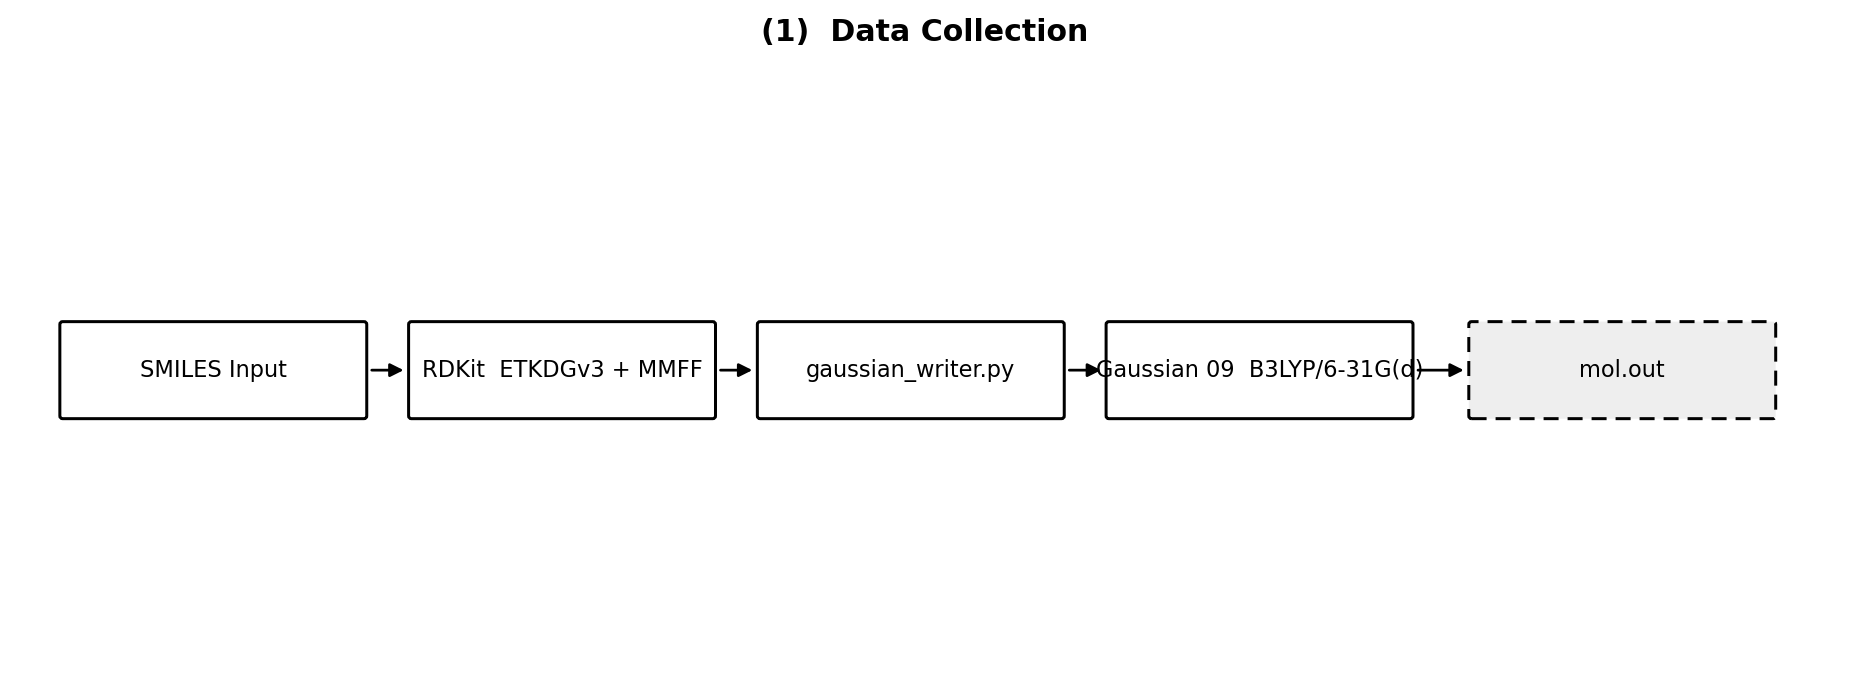
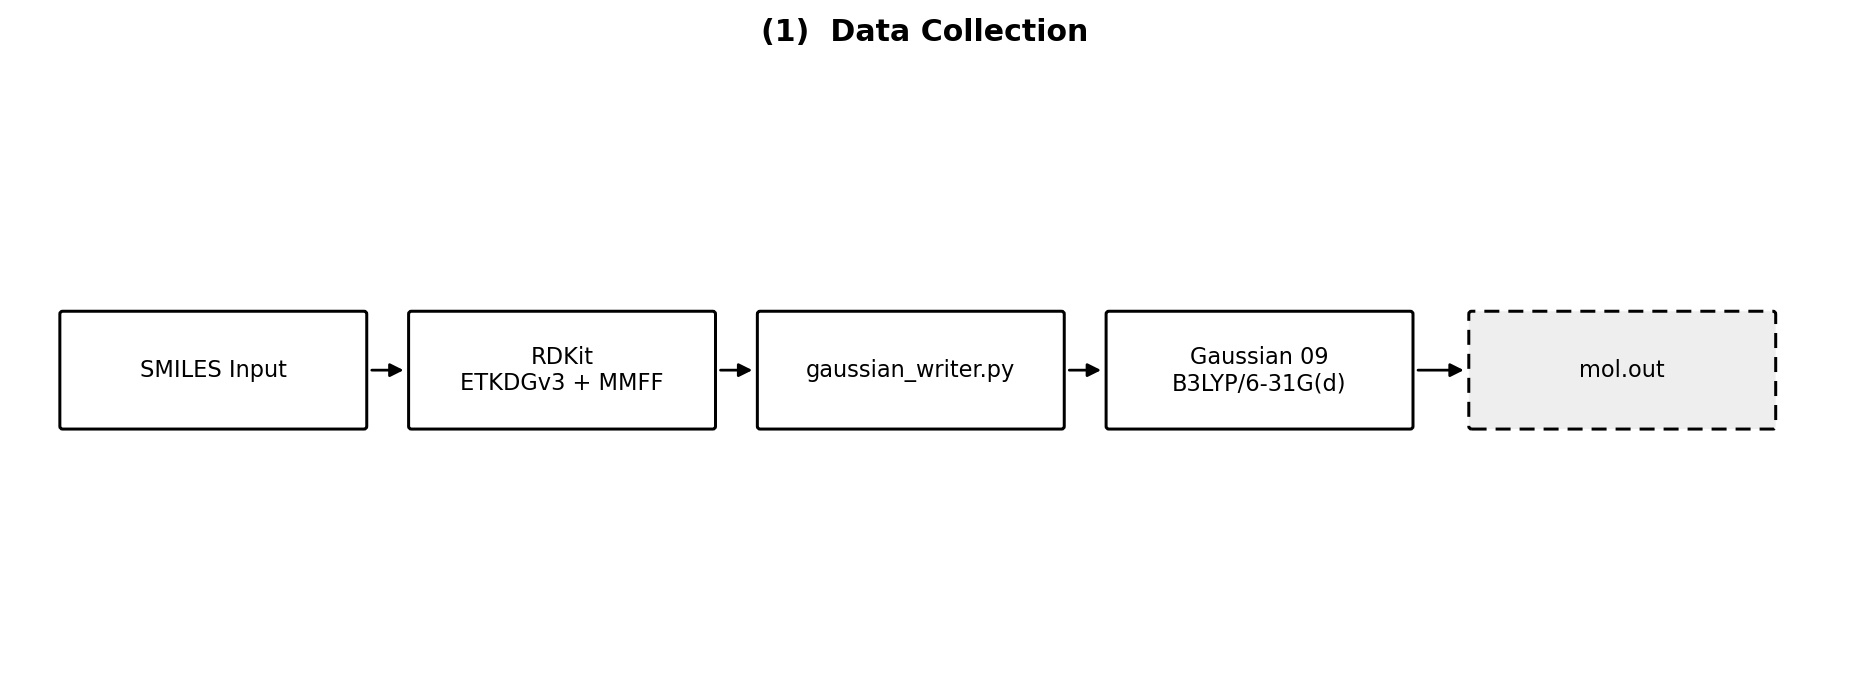
fix: resolve text overflow in 08a and redesign 08b arrows
08a: split long labels into two lines, increase box height
08b: all arrowheads now point right only; fork/merge use plain lines

https://claude.ai/code/session_01M2h67JrTeiucj4hVGgnH3D

Changed region(s): [[0.0308, 0.42, 0.7707, 0.63], [0.8015, 0.42, 0.9557, 0.48], [0.8015, 0.57, 0.9557, 0.63]]

diff --git a/scripts/visualize_preprocessing.py b/scripts/visualize_preprocessing.py
@@ -66,19 +66,19 @@ title(ax, "(1)  Data Collection")
 
 CY  = FH / 2
 BW  = 2.2
-GAP = 0.35   # gap between box edge and arrow tip
+BH  = 0.85   # taller boxes to accommodate two-line text
 XS  = [1.4, 3.9, 6.4, 8.9, 11.5]
 
 labels = [
-    ("SMILES Input",               False),
-    ("RDKit  ETKDGv3 + MMFF",      False),
-    ("gaussian_writer.py",         False),
-    ("Gaussian 09  B3LYP/6-31G(d)", False),
-    ("mol.out",                     True),
+    ("SMILES Input",                False),
+    ("RDKit\nETKDGv3 + MMFF",       False),
+    ("gaussian_writer.py",          False),
+    ("Gaussian 09\nB3LYP/6-31G(d)", False),
+    ("mol.out",                      True),
 ]
 
 for x, (txt, dashed) in zip(XS, labels):
-    bx(ax, x, CY, txt, w=BW, dashed=dashed)
+    bx(ax, x, CY, txt, w=BW, h=BH, dashed=dashed)
 
 for i in range(len(XS) - 1):
     arr(ax, XS[i] + BW/2, CY, XS[i+1] - BW/2, CY)
@@ -89,64 +89,74 @@ save("figures/08a_phase1_data_collection.png")
 # ════════════════════════════════════════════════════════════════════════════
 # Phase 2 — Feature Extraction
 #
-#                        ┌─→ [Input orientation → MMFF coords] ─────┐
-#  [mol.out] ────────────┤                                           │
-#                        └─→ [Std orientation  → DFT coords ] ──────┤──→ [Bond Feature Extraction] ──→ [bond_features.csv]
-#  [SMILES]  ──→ [RDKit mol (hybridization / ring)] ────────────────┘
+#  All arrowheads point RIGHT only.
+#  Vertical segments are plain lines (no arrowhead).
 #
+#  [mol.out] ─F─────────────→ [Input orientation → MMFF coords] ─┐M
+#              │                                                    │ │
+#              └─────────────→ [Std orientation  → DFT coords ] ──┤ ├──→ [Bond Feature] ──→ [csv]
+#                                                                   │ │
+#  [SMILES]  ──────────────→ [RDKit mol (hybridization / ring)] ──┘ │
+#
+# F = fork point (vertical connector, no arrowhead)
+# M = merge point (vertical collector, no arrowhead), one arrow goes right
 # ════════════════════════════════════════════════════════════════════════════
 fig, ax = make_fig()
 title(ax, "(2)  Feature Extraction")
 
-BW2  = 2.9
-HH   = 0.65   # box height
+SRC_W  = 1.8    # mol.out / SMILES box width
+PARSE_W = 3.0   # parse box width
+FEAT_W  = 2.4   # Bond Feature Extraction width
+CSV_W   = 2.0   # csv width
+HH      = 0.72  # box height
 
-# X positions
-X_out  = 1.3    # mol.out
-X_smi  = 1.3    # SMILES  (below mol.out)
-X_inp  = 4.7    # Input orientation
-X_std  = 4.7    # Std orientation
-X_rdk  = 4.7    # RDKit mol
-X_feat = 8.8    # Bond Feature Extraction
-X_csv  = 12.0   # bond_features.csv
+# X centers
+X_src   = 1.2
+FORK_X  = X_src + SRC_W/2 + 0.35          # fork junction
+X_parse = 5.4                               # parse boxes center
+MERGE_X = X_parse + PARSE_W/2 + 0.3        # merge junction
+X_feat  = MERGE_X + 0.3 + FEAT_W/2 + 0.5
+X_csv   = X_feat + FEAT_W/2 + 0.4 + CSV_W/2
 
-# Y positions
-Y_top = 3.2   # mol.out & Input orientation row
-Y_mid = 2.25  # Standard orientation row
-Y_bot = 1.3   # SMILES / RDKit mol row
+# Y rows
+Y_top = 3.4
+Y_mid = 2.25
+Y_bot = 1.1
 
-# Source boxes
-bx(ax, X_out, Y_top, "mol.out",  w=1.8, h=HH, dashed=True)
-bx(ax, X_smi, Y_bot, "SMILES",   w=1.8, h=HH)
+# ── source boxes ────────────────────────────────────────────
+bx(ax, X_src, Y_top, "mol.out", w=SRC_W, h=HH, dashed=True)
+bx(ax, X_src, Y_bot, "SMILES",  w=SRC_W, h=HH)
 
-# Parse / topology boxes
-bx(ax, X_inp, Y_top, "Input orientation  →  MMFF coords",  w=BW2, h=HH)
-bx(ax, X_std, Y_mid, "Standard orientation  →  DFT coords", w=BW2, h=HH)
-bx(ax, X_rdk, Y_bot, "RDKit mol  (hybridization / ring)",   w=BW2, h=HH)
+# ── parse / topology boxes ───────────────────────────────────
+bx(ax, X_parse, Y_top, "Input orientation  →  MMFF coords",   w=PARSE_W, h=HH)
+bx(ax, X_parse, Y_mid, "Standard orientation  →  DFT coords", w=PARSE_W, h=HH)
+bx(ax, X_parse, Y_bot, "RDKit mol  (hybridization / ring)",   w=PARSE_W, h=HH)
 
-# mol.out → Input orientation (straight right)
-arr(ax, X_out + 1.8/2, Y_top, X_inp - BW2/2, Y_top)
+# ── mol.out fork (no downward arrowhead) ─────────────────────
+#    horizontal line: mol.out right → FORK_X  (Y_top)
+ln(ax, [X_src + SRC_W/2, FORK_X], [Y_top, Y_top])
+#    vertical connector: FORK_X from Y_top down to Y_mid
+ln(ax, [FORK_X, FORK_X], [Y_mid, Y_top])
+#    right arrows from FORK_X to each parse box
+arr(ax, FORK_X, Y_top, X_parse - PARSE_W/2, Y_top)   # → Input orientation
+arr(ax, FORK_X, Y_mid, X_parse - PARSE_W/2, Y_mid)   # → Std orientation
 
-# mol.out → Standard orientation (down then right)
-FORK_X = X_out + 1.8/2 + 0.25
-ln(ax, [X_out + 1.8/2, FORK_X], [Y_top, Y_top])
-ln(ax, [FORK_X, FORK_X], [Y_top, Y_mid])
-arr(ax, FORK_X, Y_mid, X_std - BW2/2, Y_mid)
+# ── SMILES → RDKit mol ───────────────────────────────────────
+arr(ax, X_src + SRC_W/2, Y_bot, X_parse - PARSE_W/2, Y_bot)
 
-# SMILES → RDKit mol (straight right)
-arr(ax, X_smi + 1.8/2, Y_bot, X_rdk - BW2/2, Y_bot)
-
-# Convergence: three parse boxes → Bond Feature Extraction
-bx(ax, X_feat, Y_mid, "Bond Feature Extraction", w=2.6, h=HH)
-MERGE_X = X_inp + BW2/2 + 0.2
+# ── merge (no arrowhead on collector lines) ───────────────────
+#    horizontal lines: each parse box right → MERGE_X
 for yi in [Y_top, Y_mid, Y_bot]:
-    ln(ax, [X_inp + BW2/2, MERGE_X], [yi, yi])
+    ln(ax, [X_parse + PARSE_W/2, MERGE_X], [yi, yi])
+#    vertical collector at MERGE_X
 ln(ax, [MERGE_X, MERGE_X], [Y_bot, Y_top])
-arr(ax, MERGE_X, Y_mid, X_feat - 2.6/2, Y_mid)
+#    single right arrow from MERGE_X mid → Bond Feature Extraction
+bx(ax, X_feat, Y_mid, "Bond Feature Extraction", w=FEAT_W, h=HH)
+arr(ax, MERGE_X, Y_mid, X_feat - FEAT_W/2, Y_mid)
 
-# Bond Feature Extraction → csv
-bx(ax, X_csv, Y_mid, "bond_features.csv", w=2.2, h=HH, dashed=True)
-arr(ax, X_feat + 2.6/2, Y_mid, X_csv - 2.2/2, Y_mid)
+# ── Bond Feature Extraction → csv ────────────────────────────
+bx(ax, X_csv, Y_mid, "bond_features.csv", w=CSV_W, h=HH, dashed=True)
+arr(ax, X_feat + FEAT_W/2, Y_mid, X_csv - CSV_W/2, Y_mid)
 
 save("figures/08b_phase2_feature_extraction.png")
 
